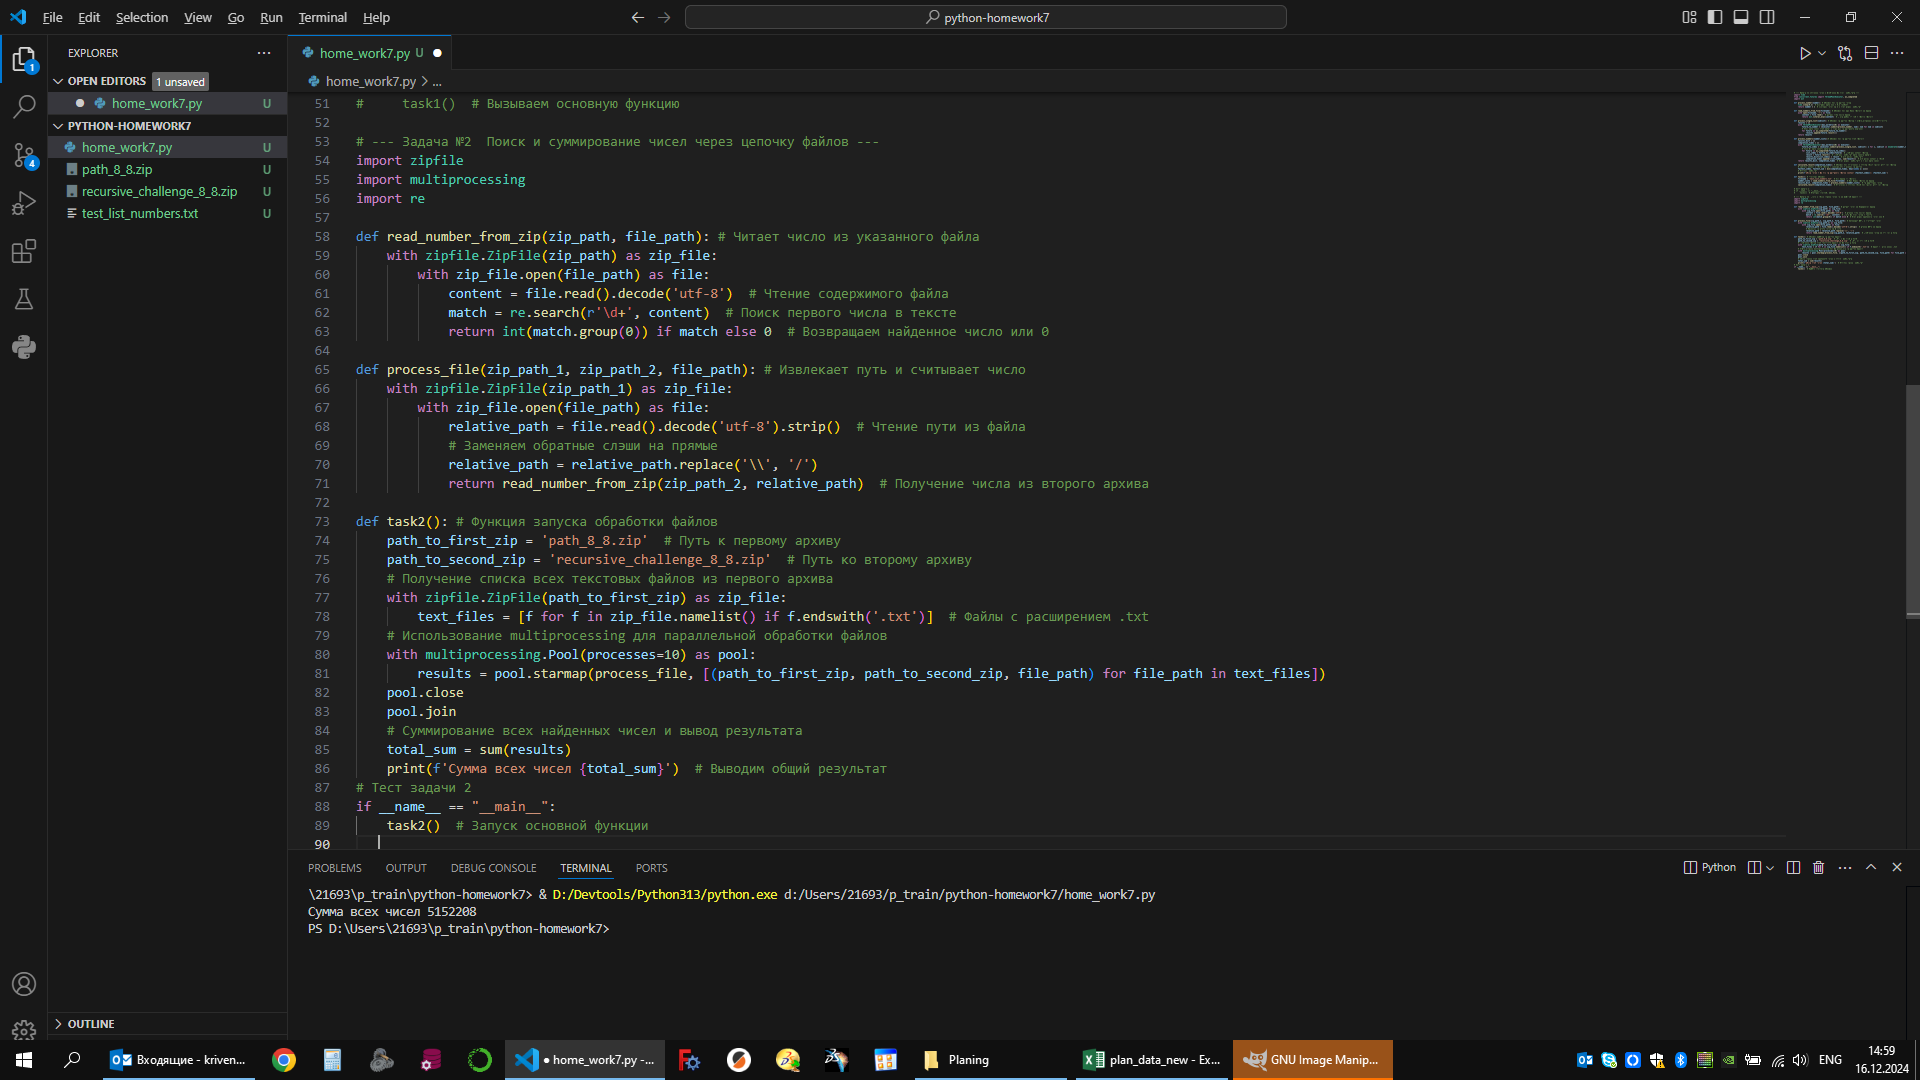
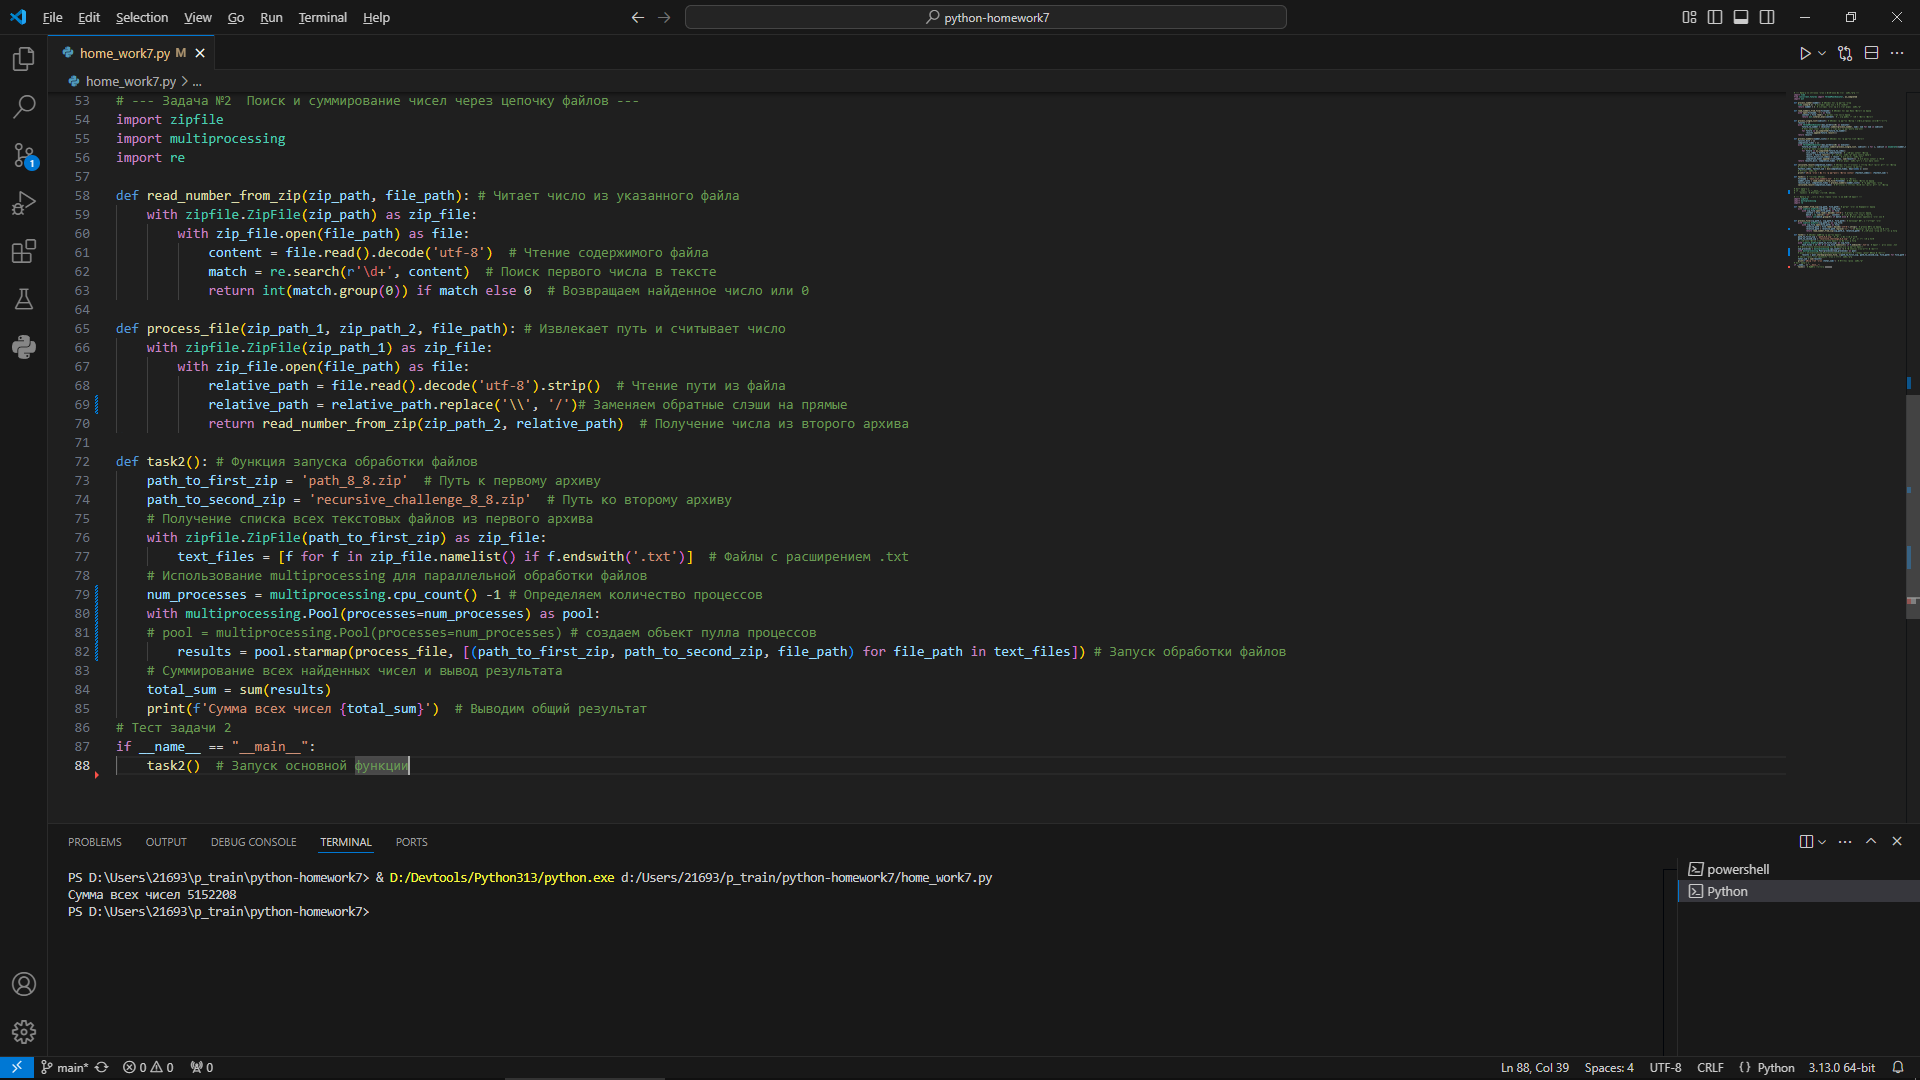
правка 1

diff --git a/home_work7.py b/home_work7.py
@@ -47,8 +47,8 @@ def task1(): # Основная функция
     calculate_result(completion_times)  # Вычисляем и выводим сумму для самого быстрого списка
 
 # Тест задачи 1
-if __name__ == "__main__":
-    task1()  # Вызываем основную функцию
+# if __name__ == "__main__":
+#     task1()  # Вызываем основную функцию
 
 # --- Задача №2  Поиск и суммирование чисел через цепочку файлов ---
 import zipfile
@@ -66,8 +66,7 @@ def process_file(zip_path_1, zip_path_2, file_path): # Извлекает пут
     with zipfile.ZipFile(zip_path_1) as zip_file:
         with zip_file.open(file_path) as file:
             relative_path = file.read().decode('utf-8').strip()  # Чтение пути из файла
-            # Заменяем обратные слэши на прямые
-            relative_path = relative_path.replace('\\', '/')
+            relative_path = relative_path.replace('\\', '/')# Заменяем обратные слэши на прямые
             return read_number_from_zip(zip_path_2, relative_path)  # Получение числа из второго архива
 
 def task2(): # Функция запуска обработки файлов
@@ -77,14 +76,13 @@ def task2(): # Функция запуска обработки файлов
     with zipfile.ZipFile(path_to_first_zip) as zip_file:
         text_files = [f for f in zip_file.namelist() if f.endswith('.txt')]  # Файлы с расширением .txt
     # Использование multiprocessing для параллельной обработки файлов
-    with multiprocessing.Pool(processes=10) as pool:
-        results = pool.starmap(process_file, [(path_to_first_zip, path_to_second_zip, file_path) for file_path in text_files])
-    pool.close
-    pool.join
+    num_processes = multiprocessing.cpu_count() -1 # Определяем количество процессов
+    with multiprocessing.Pool(processes=num_processes) as pool:
+    # pool = multiprocessing.Pool(processes=num_processes) # создаем объект пулла процессов
+        results = pool.starmap(process_file, [(path_to_first_zip, path_to_second_zip, file_path) for file_path in text_files]) # Запуск обработки файлов
     # Суммирование всех найденных чисел и вывод результата
     total_sum = sum(results)
     print(f'Сумма всех чисел {total_sum}')  # Выводим общий результат
 # Тест задачи 2
 if __name__ == "__main__":
     task2()  # Запуск основной функции
-   
